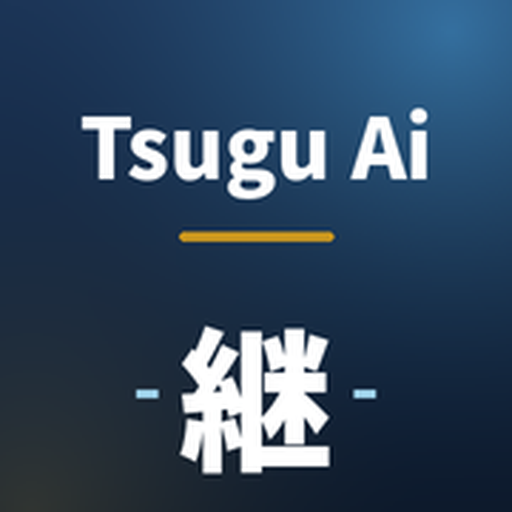
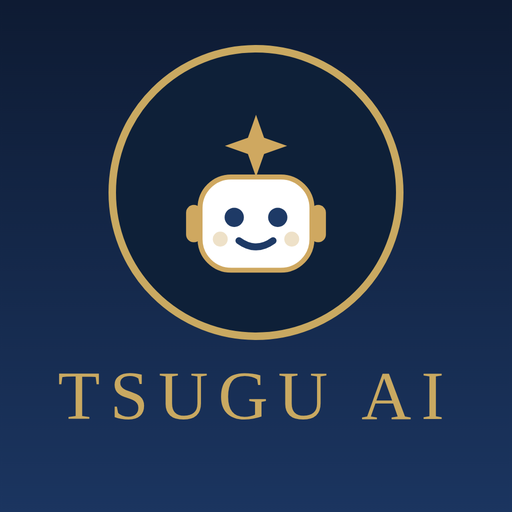
アプリアイコンを継ナビくん＋TSUGU AI に差し替える
これまでは「Tsugu Ai／継」の文字だけだった。ホーム画面に並んだとき、
文字の下にアプリ名がもう一度出るので、二重で、しかも顔が無かった。

紺の地に金の輪、中に継ナビくん、下に TSUGU AI。LPのメニューに出てくる
ものに合わせた。図形はアプリ内の丸窓と同じもので、輪と中身の比も
そろえてある。

ホーム画面では60pt前後でしか出ない。最初は余白が多く、その大きさだと
文字がつぶれたので、丸と文字を目一杯に取り直した。飾り罫はその大きさ
では滲むだけなので入れていない。

  180 / 192 / 512   継ナビくん＋TSUGU AI
  512 maskable      継ナビくんだけ。Androidの切り抜きに備えて中央80%に収める
                    （これまで512をそのまま使い回しており、円で切られると
                      文字が欠けていた）
  favicon 16/32/ico 継ナビくんだけ。この大きさで文字は読めない

版下は tools/build-icons.py に置いた。画像を手で触らず、ここを直して
焼き直す。作る途中で2つ踏んだので、その対処も書き残してある。
  ・CSSの svg{} が入れ子のマスコットにも当たって巨大化する
  ・headlessの表示領域は指定より約87px低く、下がはみ出して白く抜ける

差し替えても古いものが残るため、参照に ?v=3 を付けた。

Claude-Session: https://claude.ai/code/session_01FLj2nvpDqv6YWc7dnVpqmv

diff --git a/index.html b/index.html
@@ -23,10 +23,10 @@
 <meta name="twitter:image" content="https://y12fukukitaru.github.io/Tsugu-Ai/ogp.png">
 
 <meta name="theme-color" content="#0E1B33">
-<link rel="icon" type="image/png" sizes="32x32" href="https://y12fukukitaru.github.io/Tsugu-Ai/favicon-32.png?v=2">
-<link rel="icon" type="image/png" sizes="16x16" href="https://y12fukukitaru.github.io/Tsugu-Ai/favicon-16.png?v=2">
-<link rel="icon" href="https://y12fukukitaru.github.io/Tsugu-Ai/favicon.ico?v=2" sizes="any">
-<link rel="apple-touch-icon" sizes="180x180" href="https://y12fukukitaru.github.io/Tsugu-Ai/apple-touch-icon.png">
+<link rel="icon" type="image/png" sizes="32x32" href="https://y12fukukitaru.github.io/Tsugu-Ai/favicon-32.png?v=3">
+<link rel="icon" type="image/png" sizes="16x16" href="https://y12fukukitaru.github.io/Tsugu-Ai/favicon-16.png?v=3">
+<link rel="icon" href="https://y12fukukitaru.github.io/Tsugu-Ai/favicon.ico?v=3" sizes="any">
+<link rel="apple-touch-icon" sizes="180x180" href="https://y12fukukitaru.github.io/Tsugu-Ai/apple-touch-icon.png?v=3">
 <link rel="manifest" href="manifest.json">
 <link rel="preconnect" href="https://fonts.googleapis.com">
 <link href="https://fonts.googleapis.com/css2?family=Noto+Sans+JP:wght@300;400;500;700&family=DM+Sans:opsz,wght@9..40,400;9..40,500&family=Shippori+Mincho:wght@500;600;700&family=Zen+Maru+Gothic:wght@400;500;700&display=swap" rel="stylesheet">
@@ -1263,7 +1263,7 @@
   //  GitHub Pages は HTML を最大10分キャッシュする。開いたままの画面や再訪問では
   //  古い版が動き続けるため、公開中の版（version.json）と突き合わせて知らせる。
   //  ※ index.html を直すときは、下の APP_BUILD と version.json の両方を同じ値にすること。
-  var APP_BUILD='20260817-6';
+  var APP_BUILD='20260818-1';
   var UPD_SEEN=false;
   function appReload(){ location.reload(); }
   function appUpdDismiss(){ var b=$('upd-bar'); if(b) b.classList.add('hidden'); }

diff --git a/tools/build-icons.py b/tools/build-icons.py
@@ -1,0 +1,106 @@
+# -*- coding: utf-8 -*-
+# アプリアイコンを作り直すための版下。手で画像を触らず、ここを直して焼き直す。
+#
+#   python3 tools/build-icons.py
+#   （出力はこのファイルと同じ場所に出るので、リポジトリ直下にコピーする）
+#
+# 焼くもの
+#   apple-touch-icon.png   180  iOSのホーム画面
+#   icon-192 / icon-512    PWA（purpose:any）
+#   icon-512-maskable      Androidが円などで切り抜く版。中央80%に収める
+#   favicon-16 / 32 / ico  文字が読めない小ささなので継ナビくんだけ
+import io, os, subprocess, sys
+
+OUT = os.path.dirname(os.path.abspath(__file__))
+CHROME = "/opt/pw-browsers/chromium"
+
+NAVY_T, NAVY_B = "#0E1B33", "#1B3560"   # 背景の縦グラデーション（写真のメニューに合わせる）
+RING          = "#C9A961"               # 金の輪
+FACE_GOLD     = "#CFA860"               # 継ナビくんの金
+INK           = "#1E3A66"               # 目と口
+
+# 継ナビくん（アプリ内と同じ図形。viewBox 6 0 52 56）
+NAVI = ('<svg x="{x}" y="{y}" width="{w}" height="{w}" viewBox="6 0 52 56">'
+        '<path d="M32 3 L34.6 10.4 L42 13 L34.6 15.6 L32 23 L29.4 15.6 L22 13 L29.4 10.4 Z" fill="%s"/>'
+        '<rect x="9.5" y="32" width="5" height="12" rx="2.5" fill="%s"/>'
+        '<rect x="49.5" y="32" width="5" height="12" rx="2.5" fill="%s"/>'
+        '<rect x="14" y="23" width="36" height="30" rx="10" fill="#fff" stroke="%s" stroke-width="1.6"/>'
+        '<circle cx="25" cy="36" r="3.1" fill="%s"/><circle cx="39" cy="36" r="3.1" fill="%s"/>'
+        '<circle cx="20.5" cy="43" r="2.4" fill="%s" opacity=".35"/>'
+        '<circle cx="43.5" cy="43" r="2.4" fill="%s" opacity=".35"/>'
+        '<path d="M26.5 43.5 Q32 47.5 37.5 43.5" fill="none" stroke="%s" stroke-width="2.2" stroke-linecap="round"/>'
+        '</svg>') % (FACE_GOLD, FACE_GOLD, FACE_GOLD, FACE_GOLD, INK, INK, FACE_GOLD, FACE_GOLD, INK)
+
+def badge(cx, cy, r, ring_w):
+    """金の輪の丸窓に継ナビくんを収める。輪と中身の比はアプリ内の丸窓と同じ（約59%）。"""
+    w = r * 2 * 0.59
+    return ('<circle cx="%g" cy="%g" r="%g" fill="#0E2038"/>'
+            '<circle cx="%g" cy="%g" r="%g" fill="none" stroke="%s" stroke-width="%g"/>'
+            % (cx, cy, r, cx, cy, r - ring_w / 2.0, RING, ring_w)) + \
+           NAVI.format(x=cx - w / 2.0, y=cy - w / 2.0, w=w)
+
+def svg(kind):
+    S = 1024
+    bg = ('<defs><linearGradient id="g" x1="0" y1="0" x2="0" y2="1">'
+          '<stop offset="0" stop-color="%s"/><stop offset="1" stop-color="%s"/></linearGradient></defs>'
+          '<rect width="%d" height="%d" fill="url(#g)"/>' % (NAVY_T, NAVY_B, S, S))
+    if kind == "full":            # 継ナビくん＋TSUGU AI（ホーム画面・PWA用）
+        # ホーム画面では60pt前後でしか出ない。余白を切り詰め、丸と文字を
+        # 目一杯に取る。飾り罫はその大きさでは滲むだけなので入れない。
+        body = badge(512, 385, 295, 15) + (
+            '<text x="512" y="838" text-anchor="middle" fill="%s" '
+            'font-family="Liberation Serif,DejaVu Serif,serif" font-size="138" '
+            'letter-spacing="20" style="text-indent:0">TSUGU AI</text>' % RING)
+    elif kind == "mark":          # 継ナビくんだけ（favicon など、文字が読めない小ささ用）
+        body = badge(512, 512, 392, 20)
+    else:                         # maskable（Androidが円などで切り抜く。中央80%に収める）
+        body = badge(512, 512, 300, 16)
+    return ('<svg id="ic" xmlns="http://www.w3.org/2000/svg" viewBox="0 0 %d %d" '
+            'width="%d" height="%d">%s%s</svg>') % (S, S, S, S, bg, body)
+
+def render(kind, size, path):
+    """1024で1枚だけ焼いて、そこから各寸法に落とす。
+
+    headless の表示領域は --window-size より約87px低く、指定どおりの大きさで
+    焼くと下がはみ出して白く抜ける。実際に測って分かった。窓を十分大きく取り、
+    左上の1024角を切り出す形にすれば、その差に左右されない。
+    """
+    from PIL import Image
+    src = os.path.join(OUT, "_src_%s.png" % kind)
+    if not os.path.exists(src):
+        html = ('<meta charset="utf-8"><style>html,body{margin:0;padding:0;'
+                'background:transparent;}#ic{display:block;width:1024px;height:1024px;}'
+                '</style>%s' % svg(kind))
+        h = os.path.join(OUT, "_t_%s.html" % kind)
+        io.open(h, "w", encoding="utf-8").write(html)
+        shot = os.path.join(OUT, "_shot_%s.png" % kind)
+        subprocess.run([CHROME, "--headless=new", "--no-sandbox", "--disable-gpu",
+                        "--hide-scrollbars", "--force-device-scale-factor=1",
+                        "--window-size=1200,1400", "--screenshot=" + shot, "file://" + h],
+                       check=True, capture_output=True)
+        im = Image.open(shot).convert("RGBA").crop((0, 0, 1024, 1024))
+        # 焼けているか（下端まで背景があるか）を確かめてから使う
+        px = im.convert("RGB").getpixel((512, 1023))
+        assert px != (255, 255, 255), "版下の下端が白い（切り出しがずれている）: %s" % (px,)
+        im.save(src)
+    Image.open(src).resize((size, size), Image.LANCZOS).save(path)
+    print("  %-22s %4dpx" % (os.path.basename(path), size))
+
+targets = [
+    ("full", 180, "apple-touch-icon.png"),
+    ("full", 192, "icon-192.png"),
+    ("full", 512, "icon-512.png"),
+    ("mask", 512, "icon-512-maskable.png"),
+    ("mark",  32, "favicon-32.png"),
+    ("mark",  16, "favicon-16.png"),
+]
+print("焼きます:")
+for kind, size, name in targets:
+    render(kind, size, os.path.join(OUT, name))
+
+# favicon.ico（16/32/48 を1つに）
+from PIL import Image
+render("mark", 48, os.path.join(OUT, "_f48.png"))
+base = Image.open(os.path.join(OUT, "_f48.png")).convert("RGBA")
+base.save(os.path.join(OUT, "favicon.ico"), sizes=[(16, 16), (32, 32), (48, 48)])
+print("  favicon.ico            16/32/48")
